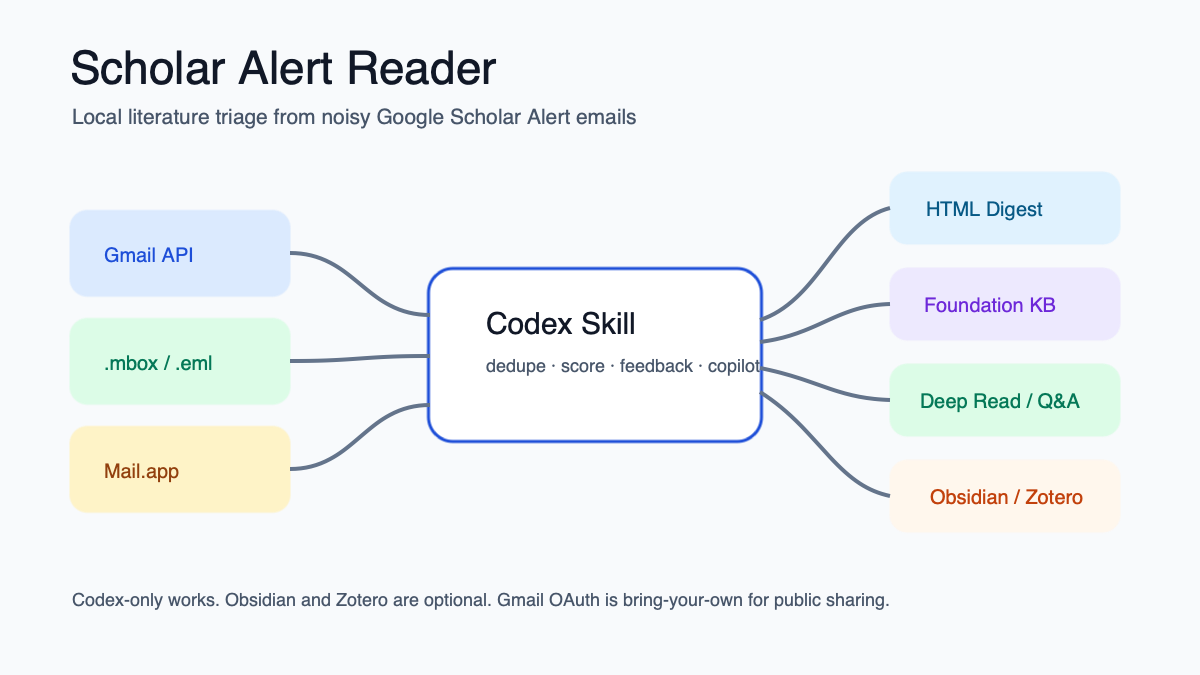
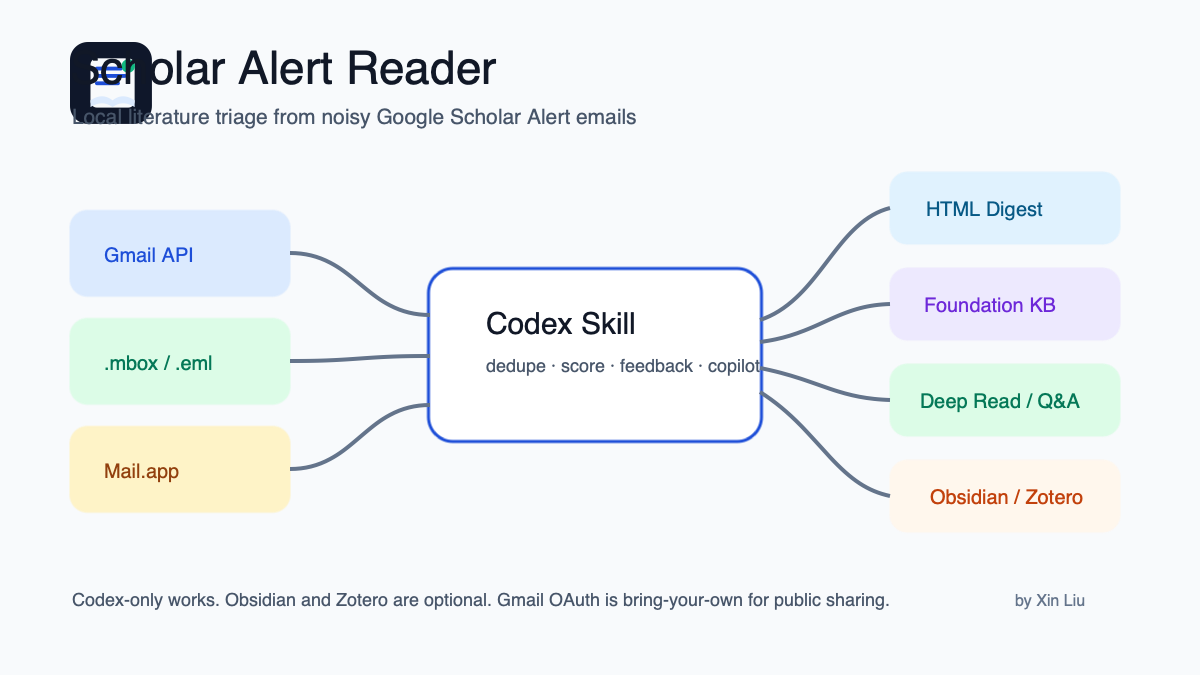
Polish marketing assets and author branding

Changed region(s): [[0.0308, 0.0622, 0.1542, 0.1867], [0.8325, 0.8711, 0.925, 0.9022]]

diff --git a/scripts/generate_marketing_assets.py b/scripts/generate_marketing_assets.py
@@ -90,10 +90,23 @@ FONT = {
 
 def svg_assets() -> None:
     ASSET_DIR.mkdir(parents=True, exist_ok=True)
+    logo = """<svg xmlns="http://www.w3.org/2000/svg" width="512" height="512" viewBox="0 0 512 512" role="img" aria-labelledby="title desc">
+<title id="title">Scholar Alert Reader logo</title>
+<desc id="desc">A paper, alert signal, and reading foundation mark for Scholar Alert Reader.</desc>
+<rect width="512" height="512" rx="112" fill="#0f172a"/>
+<path d="M128 142c0-22 18-40 40-40h196c22 0 40 18 40 40v228c0 22-18 40-40 40H168c-22 0-40-18-40-40V142z" fill="#f8fafc"/>
+<path d="M168 166h150M168 212h176M168 258h132" stroke="#1d4ed8" stroke-width="24" stroke-linecap="round"/>
+<path d="M128 365c50-34 96-34 138 0 42-34 88-34 138 0v42c-50-32-96-32-138 0-42-32-88-32-138 0v-42z" fill="#dbeafe"/>
+<circle cx="364" cy="150" r="42" fill="#10b981"/>
+<path d="M364 100v-30M364 230v-30M314 150h-30M444 150h-30" stroke="#10b981" stroke-width="18" stroke-linecap="round"/>
+<text x="374" y="388" fill="#64748b" font-family="Inter, Arial, sans-serif" font-size="34" font-weight="800" opacity=".62">XL</text>
+</svg>
+"""
     architecture = """<svg xmlns="http://www.w3.org/2000/svg" width="1200" height="675" viewBox="0 0 1200 675" role="img" aria-labelledby="title desc">
 <title id="title">Scholar Alert Reader architecture</title>
 <desc id="desc">Google Scholar Alerts enter the local Codex skill, which writes digests, a knowledge base, and optional Obsidian and Zotero exports.</desc>
 <rect width="1200" height="675" fill="#f8fafc"/>
+<g transform="translate(70 42) scale(.16)"><rect width="512" height="512" rx="112" fill="#0f172a"/><path d="M128 142c0-22 18-40 40-40h196c22 0 40 18 40 40v228c0 22-18 40-40 40H168c-22 0-40-18-40-40V142z" fill="#f8fafc"/><path d="M168 166h150M168 212h176M168 258h132" stroke="#1d4ed8" stroke-width="24" stroke-linecap="round"/><path d="M128 365c50-34 96-34 138 0 42-34 88-34 138 0v42c-50-32-96-32-138 0-42-32-88-32-138 0v-42z" fill="#dbeafe"/><circle cx="364" cy="150" r="42" fill="#10b981"/></g>
 <text x="70" y="84" fill="#111827" font-family="Inter, Arial, sans-serif" font-size="46" font-weight="800">Scholar Alert Reader</text>
 <text x="72" y="124" fill="#475569" font-family="Inter, Arial, sans-serif" font-size="21">Local literature triage from noisy Google Scholar Alert emails</text>
 <defs>
@@ -117,6 +130,7 @@ def svg_assets() -> None:
   <path d="M 760 320 C 820 300 835 222 890 208"/><path d="M 760 342 C 820 334 835 306 890 304"/><path d="M 760 368 C 820 380 835 398 890 400"/><path d="M 760 392 C 820 430 835 484 890 496"/>
 </g>
 <text x="72" y="606" fill="#475569" font-family="Inter, Arial, sans-serif" font-size="18">Codex-only works. Obsidian and Zotero are optional. Gmail OAuth is bring-your-own for public sharing.</text>
+<text x="1015" y="606" fill="#64748b" font-family="Inter, Arial, sans-serif" font-size="16">by Xin Liu</text>
 </svg>
 """
     social = """<svg xmlns="http://www.w3.org/2000/svg" width="1200" height="630" viewBox="0 0 1200 630" role="img" aria-labelledby="title desc">
@@ -125,7 +139,8 @@ def svg_assets() -> None:
 <rect width="1200" height="630" fill="#0f172a"/>
 <circle cx="1010" cy="90" r="180" fill="#1d4ed8" opacity=".28"/><circle cx="170" cy="530" r="220" fill="#10b981" opacity=".20"/>
 <rect x="80" y="78" width="1040" height="474" rx="34" fill="#f8fafc"/>
-<text x="132" y="180" fill="#111827" font-family="Inter, Arial, sans-serif" font-size="64" font-weight="850">Scholar Alert Reader</text>
+<g transform="translate(132 124) scale(.15)"><rect width="512" height="512" rx="112" fill="#0f172a"/><path d="M128 142c0-22 18-40 40-40h196c22 0 40 18 40 40v228c0 22-18 40-40 40H168c-22 0-40-18-40-40V142z" fill="#f8fafc"/><path d="M168 166h150M168 212h176M168 258h132" stroke="#1d4ed8" stroke-width="24" stroke-linecap="round"/><path d="M128 365c50-34 96-34 138 0 42-34 88-34 138 0v42c-50-32-96-32-138 0-42-32-88-32-138 0v-42z" fill="#dbeafe"/><circle cx="364" cy="150" r="42" fill="#10b981"/></g>
+<text x="230" y="180" fill="#111827" font-family="Inter, Arial, sans-serif" font-size="64" font-weight="850">Scholar Alert Reader</text>
 <text x="136" y="235" fill="#475569" font-family="Inter, Arial, sans-serif" font-size="27">Turn Google Scholar Alerts into a personal literature copilot.</text>
 <g font-family="Inter, Arial, sans-serif" font-weight="800" font-size="24">
   <rect x="138" y="304" width="180" height="68" rx="18" fill="#dbeafe"/><text x="176" y="347" fill="#1d4ed8">Digest</text>
@@ -134,8 +149,10 @@ def svg_assets() -> None:
   <rect x="794" y="304" width="218" height="68" rx="18" fill="#fef3c7"/><text x="828" y="347" fill="#92400e">Obsidian</text>
 </g>
 <text x="138" y="456" fill="#111827" font-family="Inter, Arial, sans-serif" font-size="30" font-weight="750">Local · Private · Codex-only optional · Zotero/Obsidian ready</text>
+<text x="138" y="506" fill="#64748b" font-family="Inter, Arial, sans-serif" font-size="22" font-weight="650">Created by Xin Liu · RunningXinLiu</text>
 </svg>
 """
+    (ASSET_DIR / "logo.svg").write_text(logo, encoding="utf-8")
     (ASSET_DIR / "architecture.svg").write_text(architecture, encoding="utf-8")
     (ASSET_DIR / "social-card.svg").write_text(social, encoding="utf-8")
 
@@ -144,7 +161,7 @@ def png_assets() -> None:
     sips = shutil.which("sips")
     if not sips:
         return
-    for name in ["architecture", "social-card"]:
+    for name in ["architecture", "social-card", "logo"]:
         subprocess.run(
             [sips, "-s", "format", "png", str(ASSET_DIR / f"{name}.svg"), "--out", str(ASSET_DIR / f"{name}.png")],
             check=True,
@@ -210,11 +227,31 @@ def text(buf: bytearray, width: int, x: int, y: int, value: str, color: int, sca
         cursor += 6 * scale
 
 
+def text_width(value: str, scale: int) -> int:
+    total = 0
+    for char in value.upper():
+        total += (4 if char == " " else 6) * scale
+    return total
+
+
+def fit_scale(value: str, max_width: int, preferred: int = 3, minimum: int = 1) -> int:
+    for scale in range(preferred, minimum - 1, -1):
+        if text_width(value, scale) <= max_width:
+            return scale
+    return minimum
+
+
+def fit_text(buf: bytearray, width: int, x: int, y: int, max_width: int, value: str, color: int, preferred: int = 3) -> None:
+    scale = fit_scale(value, max_width, preferred=preferred)
+    text(buf, width, x, y, value, color, scale)
+
+
 def card(buf: bytearray, width: int, x: int, y: int, w: int, h: int, fill: int, label: str, label_color: int) -> None:
     rect(buf, width, x + 6, y + 6, w, h, PALETTE["line"])
     rect(buf, width, x, y, w, h, fill)
     rect(buf, width, x, y, w, 6, PALETTE["white"])
-    text(buf, width, x + 24, y + h // 2 - 13, label, label_color, 3)
+    scale = fit_scale(label, w - 48, preferred=3)
+    text(buf, width, x + 24, y + h // 2 - (7 * scale) // 2, label, label_color, scale)
 
 
 def gif_pack_codes(codes: list[int], code_size: int) -> bytes:
@@ -293,10 +330,11 @@ def gif_assets() -> None:
         for y, fill, color, label in zip(y_positions, fills, colors, left_labels):
             card(buf, width, 50, y, 210, 58, fill, label, color)
             arrow(buf, width, 270, y + 29, 370, y + 29, PALETTE["line"])
-        card(buf, width, 390, 216, 230, 90, PALETTE["white"], right_label, PALETTE["ink"])
-        arrow(buf, width, 630, 261, 724, 261, PALETTE["line"])
+        card(buf, width, 380, 216, 270, 90, PALETTE["white"], right_label, PALETTE["ink"])
+        arrow(buf, width, 660, 261, 724, 261, PALETTE["line"])
         rect(buf, width, 728, 222, 30, 78, PALETTE["blue"])
         text(buf, width, 706, 324, "OUTPUT", PALETTE["muted"], 2)
+        text(buf, width, 642, 402, "BY XIN LIU", PALETTE["muted"], 2)
         frames.append(buf)
     write_gif(ASSET_DIR / "workflow.gif", frames, width, height, delay_cs=120)
 

diff --git a/docs/share-copy.zh.md b/docs/share-copy.zh.md
@@ -2,7 +2,7 @@
 
 ## 短版
 
-我做了一个 Codex skill：Scholar Alert Reader。它可以每天从 Google Scholar Alert 邮件里自动筛论文，生成阅读 digest，维护自己的文献 foundation，还能对重点论文做 deep-read、问答、比较和研究建议。Obsidian/Zotero 都是可选增强，不装也能用。
+我做了一个 Codex skill：Scholar Alert Reader。它可以每天从 Google Scholar Alert 邮件里自动筛论文，生成阅读 digest，维护自己的文献 foundation，还能对重点论文做 deep-read、问答、比较和研究建议。Obsidian/Zotero 都是可选增强，不装也能用。项目作者：Xin Liu。
 
 ## 稍长版
 
@@ -21,3 +21,4 @@
 - `docs/assets/social-card.png`: 适合朋友圈首图。
 - `docs/assets/workflow.gif`: 适合展示工作流。
 - `docs/assets/architecture.png`: 适合解释整体架构。
+- `docs/assets/logo.png`: 适合头像、小图标或第二张图。

diff --git a/PRODUCT.md b/PRODUCT.md
@@ -5,6 +5,7 @@ Scholar Alert Reader should feel like a small local literature product, not a pi
 ## Public Assets
 
 - `docs/assets/social-card.svg` and `docs/assets/social-card.png`: social sharing card.
+- `docs/assets/logo.svg` and `docs/assets/logo.png`: project logo with a subtle author signature.
 - `docs/assets/workflow.gif`: animated workflow overview.
 - `docs/assets/architecture.svg` and `docs/assets/architecture.png`: architecture diagram.
 - `docs/share-copy.zh.md`: short Chinese copy for sharing.

diff --git a/README.md b/README.md
@@ -1,8 +1,14 @@
+<p align="center">
+  <img src="docs/assets/logo.svg" alt="Scholar Alert Reader logo" width="104">
+</p>
+
 # Scholar Alert Reader Skill
 
 A Codex skill for turning Google Scholar Alert emails into personalized literature digests and a cumulative reading knowledge base.
 
 Version: `0.1.0`
+
+Created by [Xin Liu](https://github.com/RunningXinLiu).
 
 <p align="center">
   <img src="docs/assets/social-card.svg" alt="Scholar Alert Reader social card" width="900">
